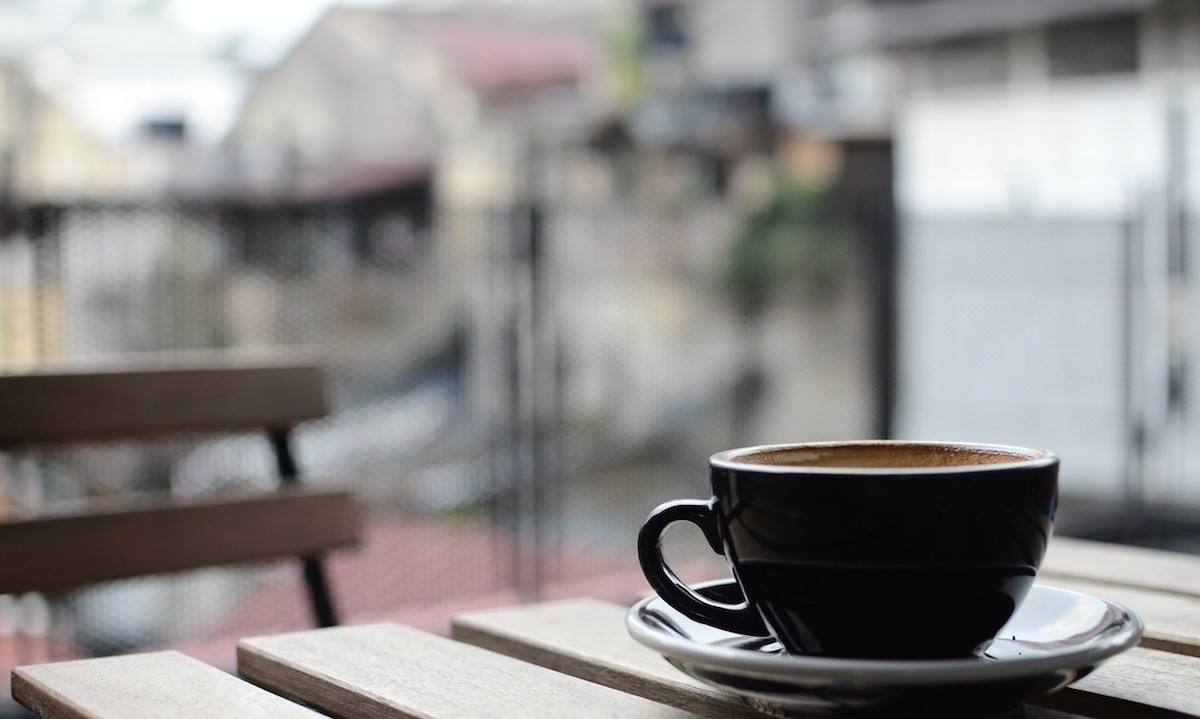
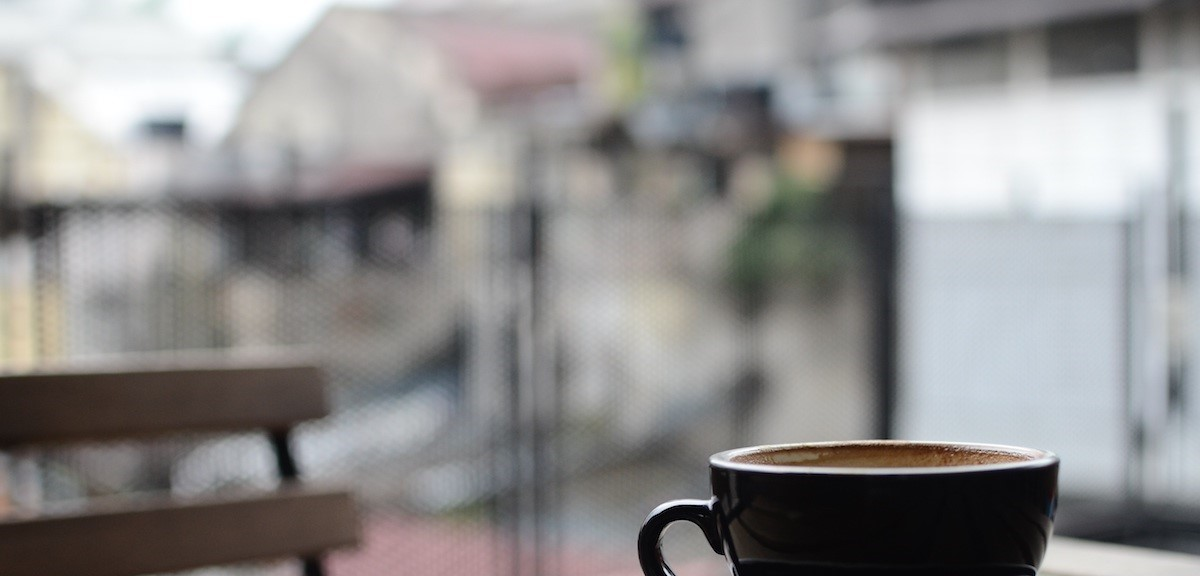
Chá OK!
Página finalizada

diff --git a/bimestre2/Cafeteria/style.css b/bimestre2/Cafeteria/style.css
@@ -5,7 +5,7 @@
     background-color: black;
     font-size: 22px;
     color: seashell;
-    /*opacity: 0.9;*/
+    opacity: 0.97;
 }
 
 header{
@@ -14,6 +14,7 @@ header{
     border-bottom: 1px solid seashell;
     position: fixed;
     top: 0;
+    z-index: 1;
     display: flex;
 }
 
@@ -22,7 +23,7 @@ header nav ul{
     display: flex;
     padding-top: 2%;
     padding-left: 60vw;
-    gap: 9vh;
+    gap: 2vw;
     text-decoration: underline;
 }
 
@@ -38,7 +39,7 @@ header img{
 
 .hero img{
     width: 75vw;
-    height: 90.7vh;
+    height: 100vh;
     margin-left: 12vw;
     padding-top: 9vh;
 }
@@ -54,6 +55,7 @@ header img{
 }
 
 .texto h2{
+    font-size: larger;
     padding-top: 10px;
     padding-bottom: 20px;
 }
@@ -62,7 +64,7 @@ header img{
     width: 70%;
     text-align: center;
     margin: 0 auto;
-    margin-top: 30%;
+    margin-top: 33%;
     margin-bottom: 5vh;
 }
 
@@ -89,15 +91,67 @@ header img{
     display: flex;
     justify-content: center;
     flex-wrap: wrap;
-    gap: 40px;
+    gap: 20px;
 }
 
 .locations img{
     width: 75vw;
-    height: 90.7vh;
+    height: 100vh;
     margin-left: 12vw;
 }
 
 .locations h2{
-    padding-top: 5vh;
+    font-size: larger;
+    position: absolute;
+    top: 250vh;
+    left: 45vw;
+    background-color: transparent;
+}
+
+.locais{
+    background-color: transparent;
+    display: flex;
+    gap: 40px;
+    text-align: center;
+    line-height: 10vh;
+    opacity: 1;
+    position: absolute;
+    top: 265vh;
+    left: 17vw;
+}
+
+.local1{
+    padding-left: 50px;
+    padding-right: 50px;
+}
+
+.local2{
+    padding-left: 20px;
+    padding-right: 20px;
+}
+
+.local3{
+    padding-left: 30px;
+    padding-right: 30px;
+}
+
+footer{
+    height: 200px;
+    text-align: center;
+}
+
+footer h2{
+    font-size: larger;
+    padding-bottom: 5vh;
+}
+
+footer h5{
+    font-size: small;
+    padding-bottom: 5vh;
+}
+
+#copy{
+    text-align: left;
+    padding-left: 20px;
+    padding-bottom: 10px;
 }

diff --git a/bimestre2/Cafeteria/index.html b/bimestre2/Cafeteria/index.html
@@ -17,7 +17,7 @@
 
   <main>
     <section class="hero">
-      <img src="resources/img-mission-background.webp">
+      <img src="resources/img-mission-background.jpg">
       <div class="texto">
         <h2>Our Mission</h2>
         <h4>Handpicked, Artisanally Curated, Free Range, Sustainable, Small Batch, Fair Trade, Organic Tea</h4>
@@ -55,34 +55,34 @@
       <img src="resources/img-locations.jpg">
       <h2>Locations</h2>
       
-      <div class="local1">
-        <h3>Downtown</h3>
-        <p>384 West 4th St</p>
-        <p>Suite 108</p>
-        <p>Portland, Maine</p>
-      </div>
-
-      <div class="local2">
-        <h3>East Bayside</h3>
-        <p>3433 Phisherman´s Avenue</p>
-        <p>(Northwest Corner)</p>
-        <p>Portland, Maine</p>
-      </div>
-
-      <div class="local3">
-        <h3>Oakdale</h3>
-        <p>515 Crescent Avenue</p>
-        <p>Second Floor</p>
-        <p>Portland, Maine</p>
+      <div class="locais">
+        <div class="local1">
+          <h3>Downtown</h3>
+          <p>384 West 4th St</p>
+          <p>Suite 108</p>
+          <p>Portland, Maine</p>
+        </div>
+        <div class="local2">
+          <h3>East Bayside</h3>
+          <p>3433 Phisherman´s Avenue</p>
+          <p>(Northwest Corner)</p>
+          <p>Portland, Maine</p>
+        </div>
+        <div class="local3">
+          <h3>Oakdale</h3>
+          <p>515 Crescent Avenue</p>
+          <p>Second Floor</p>
+          <p>Portland, Maine</p>
+        </div>
       </div>
     </section>
 
-    <!--<footer>
+    <footer>
       <h2>The Tea Cozy</h2>
       <h5>contact@theteacozy.com</h5>
       <h5>917-555-8904</h5>
-      <h5>copyright The Tea Cozy 2017</h5>
-    </footer>-->
+      <h5 id="copy">copyright The Tea Cozy 2017</h5>
+    </footer>
   </main>
 </body>
 </html>
